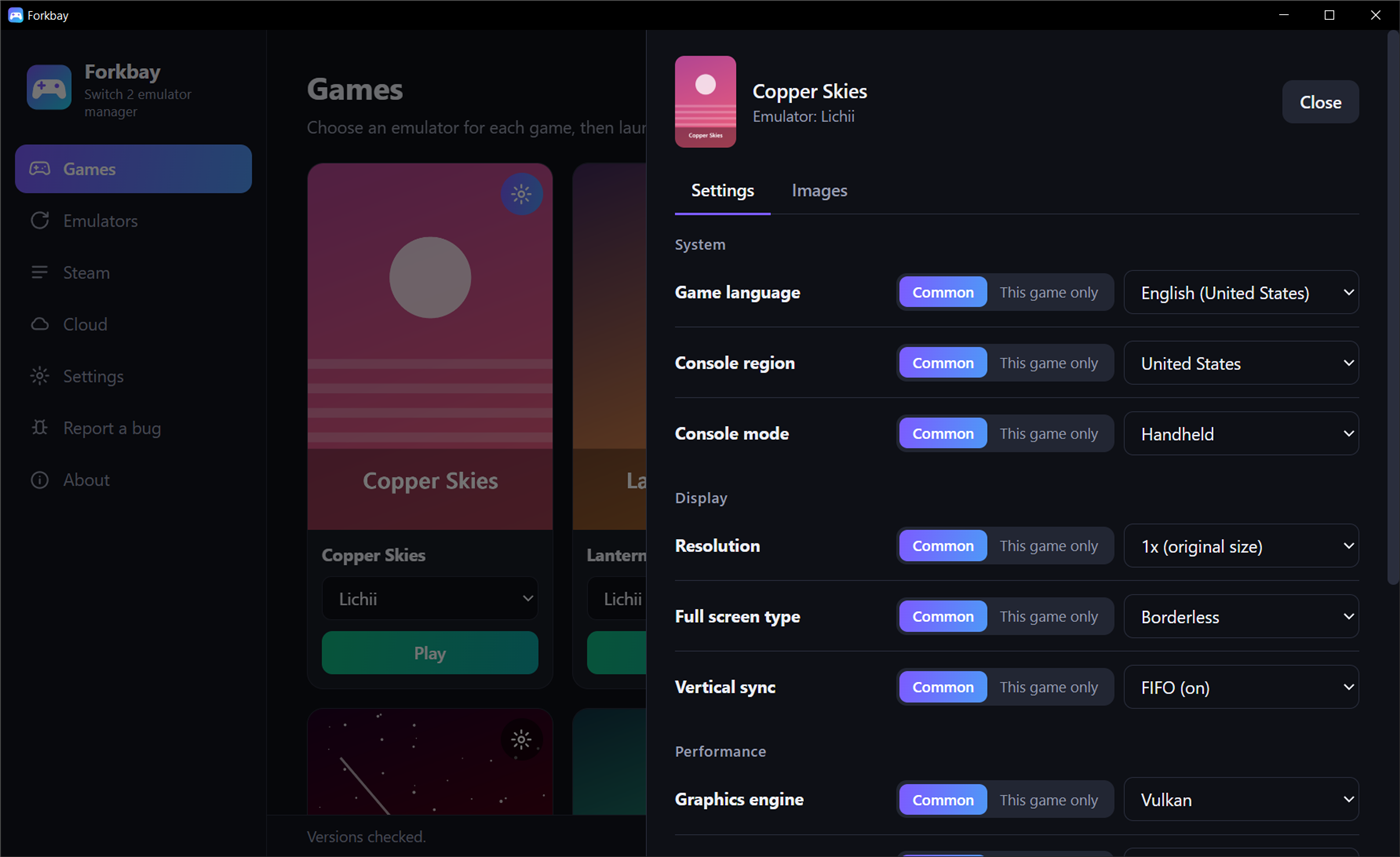
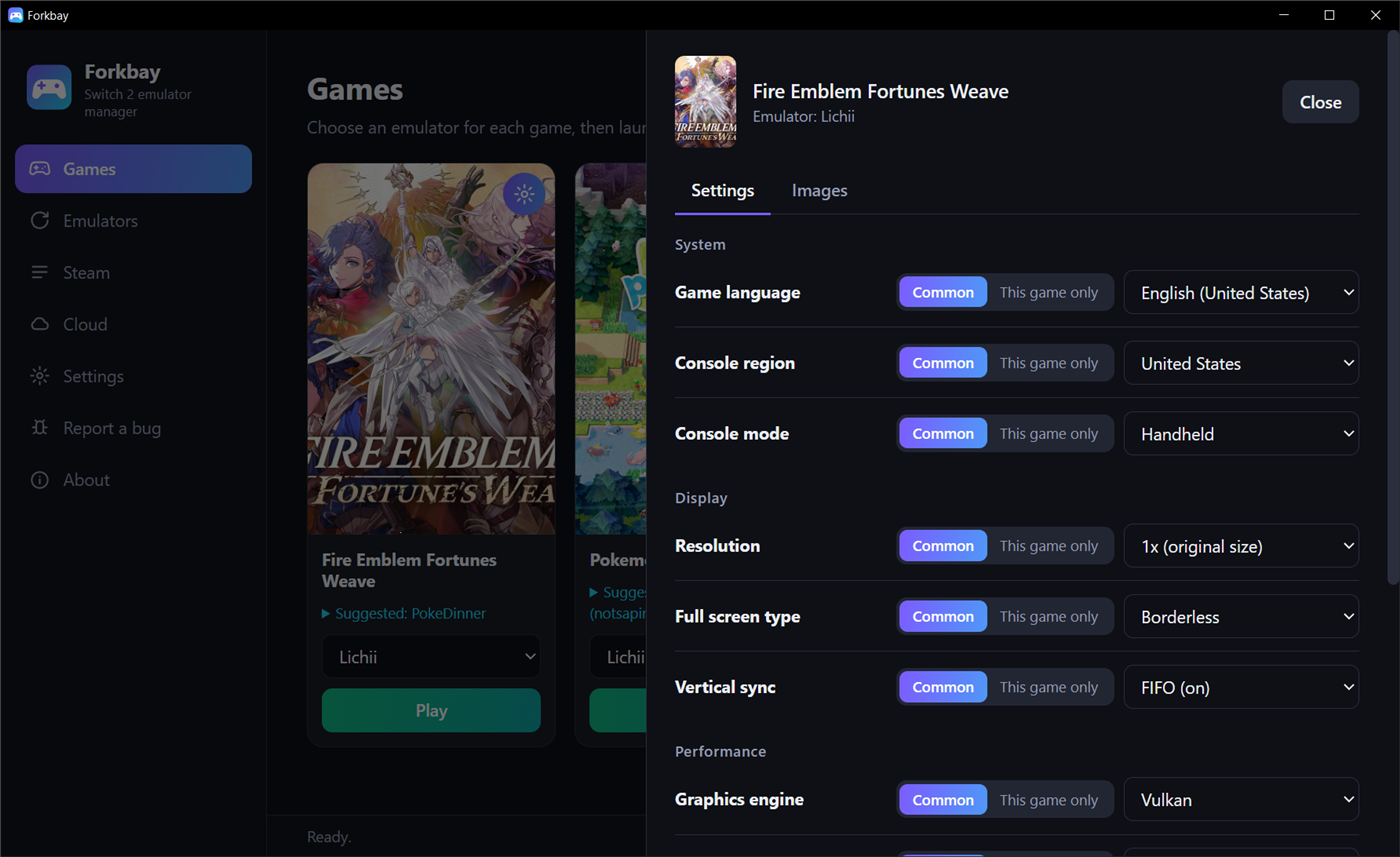
Show real games in the README screenshots

diff --git a/README.md b/README.md
@@ -24,8 +24,6 @@ One window for your Switch 2 emulators on Windows and Linux: launch games, keep 
   </tr>
 </table>
 
-<sub>The games and covers in these pictures are made up.</sub>
-
 ## What it does
 
 - **Guided setup:** imports what already exists on your PC, walks you through your keys and firmware, then installs an emulator.
@@ -124,7 +122,7 @@ GPL-3.0-or-later. See [LICENSE](LICENSE).
 
 Une seule fenêtre pour tes émulateurs Switch 2 sous Windows et Linux : lancer les jeux, garder les émulateurs à jour, partager un seul dossier de données, ajouter les jeux à Steam et synchroniser tes sauvegardes. C'est un seul petit programme, écrit en Rust.
 
-Les captures d'écran sont [en haut de la page](#forkbay). Les jeux et les jaquettes qu'on y voit sont inventés.
+Les captures d'écran sont [en haut de la page](#forkbay).
 
 ## Ce que fait l'outil
 
